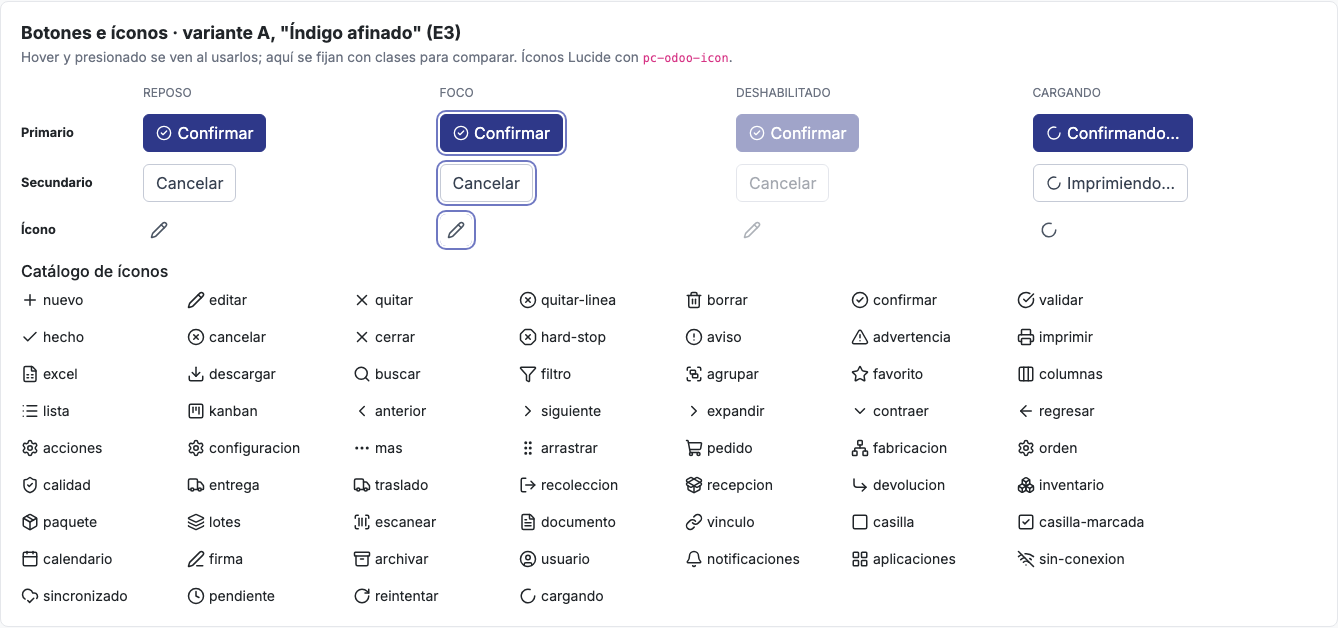
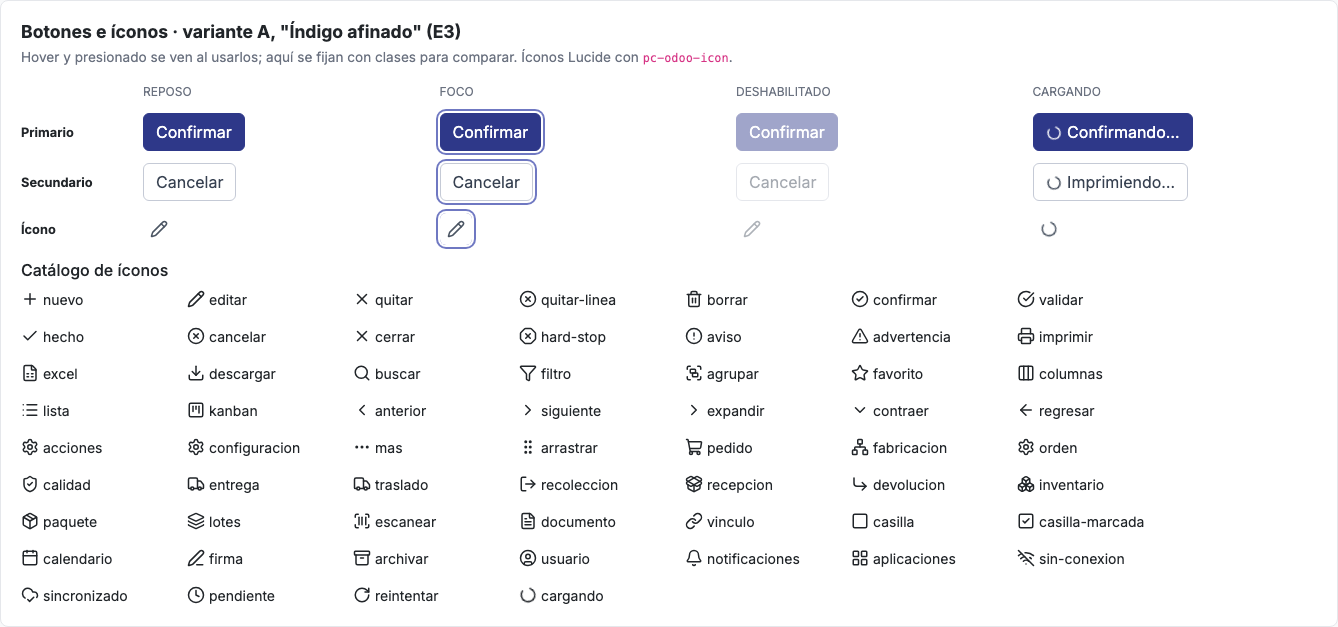
Contratos visuales: segunda revisión del líder sobre la galería
Sin ícono en Nuevo, Confirmar y Agregar; líneas de otro documento con
botones de enlace; sincronización en la barra de acciones; etapas de
338 px con el estado arriba a la derecha y la fecha estimada de entrega
en la tarjeta; cambio de vista a la extrema derecha; búsqueda con radio
de 6 px; tablas con pesos más ligeros. Sin pruebas nuevas, por
indicación del líder.

Claude-Session: https://claude.ai/code/session_01RHdGrNrHGBQxGLzfEJdf7d

diff --git a/PolyConecta.Web/src/app/features/catalogo/catalogo.html b/PolyConecta.Web/src/app/features/catalogo/catalogo.html
@@ -25,10 +25,15 @@
       <h2>Lista · <code>pc-odoo-list</code> con <code>pc-odoo-search-panel</code></h2>
       <p>57 pedidos de ejemplo. Ordena, filtra, agrupa, pagina, elige columnas, selecciona, exporta y guarda favoritos; todo lo resuelve el origen de datos.</p>
       <div class="o_control_panel px-0">
+        <div class="d-flex align-items-center gap-3">
+          <pc-boton-nuevo [ruta]="'/catalogo'" />
+          <pc-odoo-breadcrumb [items]="[{ label: 'Pedidos' }]" />
+        </div>
         <pc-odoo-search-panel [view]="vista" [(texto)]="busqueda" [(filtrosActivos)]="nombrados" [(agrupacionesActivas)]="agrupaciones"
                               [permiteAgrupar]="true" [conFavoritos]="true" [favoritos]="lista.favoritos()"
                               (guardarFavorito)="lista.guardarFavorito($event.nombre, $event.porOmision)"
                               (aplicarFavorito)="lista.aplicarFavorito($event)" (borrarFavorito)="lista.borrarFavorito($event)" />
+        <div class="d-flex align-items-center gap-2"><pc-odoo-view-switcher /></div>
       </div>
       <pc-odoo-list #lista lista="catalogo.pedidos" [tamanoInicial]="20" [origen]="origen" [columnas]="columnas" [idDe]="idPedido"
                     [(busqueda)]="busqueda" [(nombrados)]="nombrados" [(agruparPor)]="agrupaciones"
@@ -49,16 +54,19 @@
                       (movida)="ultimoEvento.set($event.fila.folio + ': ' + $event.desde + ' → ' + $event.hacia); lista.recargar()"
                       (rechazada)="ultimoEvento.set($event.motivo)" (abrir)="ultimoEvento.set('Abrir ' + $event.folio)" />
       <ng-template #tarjeta let-p>
-        <div class="fw-bold text-dark small">{{ p.folio }}</div>
+        <div class="o_kanban_card_cabecera">
+          <div class="fw-semibold text-dark small">{{ p.folio }}</div>
+          <span class="badge badge-brand">{{ p.estado }}</span>
+        </div>
         <div class="text-muted small">{{ p.cliente }}</div>
-        <div class="badge badge-brand mt-2">{{ p.estado }}</div>
+        <div class="o_kanban_card_dato" data-catalogo="entrega"><pc-odoo-icon nombre="calendario" />Entrega estimada: {{ fechaCampo(p.entrega) }}</div>
       </ng-template>
     </section>
 
     <!-- ============================================================ Formulario -->
     <section class="o_catalogo_seccion" id="formulario" data-catalogo="formulario">
       <h2>Formulario de documento</h2>
-      <p>Panel (Nuevo, migas con el engranaje de acciones al final, botones inteligentes), barra de acciones y etapas, hoja con pestañas, captura de líneas y chatter con el estado de sincronización arriba. El botón inteligente "Pedido" está deshabilitado: así se ve un documento libre sin origen.</p>
+      <p>Panel (Nuevo, migas con el engranaje de acciones al final, botones inteligentes), barra de acciones con el estado de sincronización a la derecha, etapas, hoja con pestañas, captura de líneas y chatter. El botón inteligente "Pedido" está deshabilitado: así se ve un documento libre sin origen.</p>
       <div class="o_control_panel px-0">
         <div class="d-flex align-items-center gap-3">
           <pc-boton-nuevo [ruta]="'/catalogo'" />
@@ -70,9 +78,11 @@
       </div>
       <div class="o_statusbar">
         <div class="d-flex gap-2 align-items-center">
-          <button type="button" class="btn btn-primary"><pc-odoo-icon nombre="confirmar" />Confirmar</button>
+          <button type="button" class="btn btn-primary">Confirmar</button>
           <button type="button" class="btn btn-outline-secondary">Cancelar</button>
         </div>
+        <!-- Solo en documentos que envían un comando a CONTPAQi (contratos visuales §1.8). -->
+        <pc-odoo-sync-status estado="Pendiente" />
       </div>
       <div class="d-flex gap-3 align-items-start">
         <div class="o_form_sheet flex-grow-1">
@@ -102,8 +112,6 @@
           </div>
         </div>
         <div style="width:340px">
-          <!-- Solo en documentos que envían un comando a CONTPAQi (contratos visuales §1.8). -->
-          <div class="o_chatter_cabecera"><pc-odoo-sync-status estado="Pendiente" /></div>
           <pc-odoo-chatter-drawer [(messages)]="mensajes" />
         </div>
       </div>
@@ -146,10 +154,10 @@
           <pc-odoo-number nombre="Merma" tipo="porcentaje" [decimales]="1" [(ngModel)]="porcentaje" />
         </div>
         <div class="o_catalogo_campo">
-          <label>Selección de lotes</label>
+          <label>Líneas de otro documento</label>
           <div class="d-flex gap-2">
-            <button type="button" class="btn btn-sm btn-outline-secondary" data-catalogo="abrir-lotes" (click)="verLotes.set(true)"><pc-odoo-icon nombre="lotes" />Lotes</button>
-            <button type="button" class="btn btn-sm btn-outline-secondary" data-catalogo="abrir-cantidades" (click)="verCantidades.set(true)"><pc-odoo-icon nombre="lotes" />Lotes y cantidades</button>
+            <button type="button" class="btn btn-sm o_btn_link" data-catalogo="abrir-lotes" (click)="verLotes.set(true)"><pc-odoo-icon nombre="lotes" />Seleccionar líneas</button>
+            <button type="button" class="btn btn-sm o_btn_link" data-catalogo="abrir-cantidades" (click)="verCantidades.set(true)"><pc-odoo-icon nombre="lotes" />Seleccionar con cantidades</button>
           </div>
           <div class="small mt-1" data-catalogo="lotes">{{ lotesElegidos.join(', ') || '—' }}</div>
           <pc-lot-picker-modal [show]="verLotes()" [availableLots]="lotes" [(selectedFolios)]="lotesElegidos" [requiredQty]="1500" unidad="PZA" (closed)="verLotes.set(false)" />
@@ -198,9 +206,9 @@
         <span class="o_catalogo_estado">Reposo</span><span class="o_catalogo_estado">Foco</span><span class="o_catalogo_estado">Deshabilitado</span>
         <span class="o_catalogo_estado">Cargando</span>
         <strong>Primario</strong>
-        <div><button type="button" class="btn btn-primary"><pc-odoo-icon nombre="confirmar" />Confirmar</button></div>
-        <div><button type="button" class="btn btn-primary" style="box-shadow: 0 0 0 2px #fff, 0 0 0 4px var(--focus-ring)"><pc-odoo-icon nombre="confirmar" />Confirmar</button></div>
-        <div><button type="button" class="btn btn-primary" disabled><pc-odoo-icon nombre="confirmar" />Confirmar</button></div>
+        <div><button type="button" class="btn btn-primary">Confirmar</button></div>
+        <div><button type="button" class="btn btn-primary" style="box-shadow: 0 0 0 2px #fff, 0 0 0 4px var(--focus-ring)">Confirmar</button></div>
+        <div><button type="button" class="btn btn-primary" disabled>Confirmar</button></div>
         <div><button type="button" class="btn btn-primary o_btn_loading" aria-busy="true"><pc-odoo-icon nombre="cargando" />Confirmando…</button></div>
         <strong>Secundario</strong>
         <div><button type="button" class="btn btn-outline-secondary">Cancelar</button></div>

diff --git a/PolyConecta.Web/src/styles/app.css b/PolyConecta.Web/src/styles/app.css
@@ -288,10 +288,10 @@ body {
     border-radius: 8px;
     padding: 0.75rem;
     /* Ancho fijo de etapa (contratos visuales §1.2): todas las columnas miden lo mismo. */
-    width: 260px;
-    min-width: 260px;
-    max-width: 260px;
-    flex: 0 0 260px;
+    width: 338px;
+    min-width: 338px;
+    max-width: 338px;
+    flex: 0 0 338px;
 }
 
 .o_kanban_column_title {
@@ -484,15 +484,18 @@ body {
 .o_control_panel > .o_search_bar {
     justify-self: center;
 }
+.o_search_bar:focus-within { border-color: var(--brand-primary); }
+/* La tercera columna del panel (cambio de vista) va a la extrema derecha, lejos de la búsqueda. */
+.o_control_panel > :nth-child(3) { justify-self: end; }
 
 .o_search_bar {
     display: flex;
     align-items: center;
     gap: 0.4rem;
-    background: #F3F4F6;
-    border: 1px solid var(--border-color);
-    border-radius: 999px;
-    padding: 0.3rem 0.9rem;
+    background: white;
+    border: 1px solid var(--btn-secondary-border);
+    border-radius: 6px;
+    padding: 0.3rem 0.75rem;
     min-width: 280px;
     color: var(--text-muted);
 }
@@ -965,3 +968,18 @@ body {
 .o_sync_popover { padding: 0.75rem 0.9rem; min-width: 260px; max-width: 340px; font-size: 0.85rem; }
 .o_sync_popover_titulo { font-weight: 600; margin-bottom: 0.25rem; }
 .o_chatter_cabecera { display: flex; justify-content: flex-end; align-items: center; gap: 0.5rem; margin-bottom: 0.5rem; min-height: 30px; }
+
+/* --- Revisión de la galería (2026-10-07) --- */
+/* Tablas: encabezado en peso medio y gris, contenido en peso normal y a 0.85rem. */
+.table { font-size: 0.85rem; }
+.table > thead th { font-weight: 500; font-size: 0.8rem; }
+.table > tbody td { font-weight: 400; }
+.table > tbody td.fw-semibold, .table > tbody td .fw-semibold { font-weight: 500 !important; }
+.o_list_footer td { font-weight: 500; }
+/* Botón de enlace: sin borde ni fondo, color primario (abrir selectores sobre líneas de otro documento). */
+.btn.o_btn_link { white-space: nowrap; border: 0; background: transparent; color: var(--brand-primary); padding-left: 0.25rem; padding-right: 0.25rem; }
+.btn.o_btn_link:hover { color: var(--brand-primary-hover); text-decoration: underline; }
+/* Tarjeta de kanban: el estado arriba a la derecha, separado del borde por el mismo relleno de la tarjeta. */
+.o_kanban_card_cabecera { display: flex; justify-content: space-between; align-items: flex-start; gap: 0.5rem; }
+.o_kanban_card_cabecera .badge { flex-shrink: 0; }
+.o_kanban_card_dato { display: flex; align-items: center; gap: 0.35rem; margin-top: 0.5rem; font-size: 0.78rem; color: var(--text-muted); }

diff --git a/PolyConecta.Web/src/app/features/ventas/pedidos-list/pedidos-list.html b/PolyConecta.Web/src/app/features/ventas/pedidos-list/pedidos-list.html
@@ -17,10 +17,15 @@
         <pc-odoo-kanban #kanban [origen]="origen" campoEtapa="estado" [etapas]="etapas" [transiciones]="transiciones" [tarjeta]="tarjeta"
                         [idDe]="idPedido" [etapaDe]="etapaPedido" [nombrados]="filtros()" [busqueda]="searchText()" (abrir)="abrir($event)" />
         <ng-template #tarjeta let-f>
-            <div class="fw-bold text-dark small">{{ f.folio }}</div>
+            <div class="o_kanban_card_cabecera">
+                <div class="fw-semibold text-dark small">{{ f.folio }}</div>
+                <span class="badge badge-brand">{{ f.estado }}</span>
+            </div>
             <div class="text-muted small">{{ f.cliente }}</div>
-            <div class="text-muted small mt-1"><pc-odoo-icon nombre="paquete" />{{ f.producto }}</div>
-            <div class="badge badge-brand mt-2">{{ f.estado }}</div>
+            <div class="o_kanban_card_dato"><pc-odoo-icon nombre="paquete" />{{ f.producto }}</div>
+            @if (f.entrega) {
+                <div class="o_kanban_card_dato"><pc-odoo-icon nombre="calendario" />Entrega estimada: {{ fechaCampo(f.entrega) }}</div>
+            }
         </ng-template>
         <pc-odoo-pager [count]="kanban.total()" />
     } @else {

diff --git a/PolyConecta.Web/src/app/features/produccion/incidencias/incidencias.html b/PolyConecta.Web/src/app/features/produccion/incidencias/incidencias.html
@@ -19,7 +19,7 @@
         <div class="col-md-3"><label class="form-label small text-muted">Comentarios</label><input class="form-control form-control-sm o_inline_input" [value]="comentarios()" (change)="comentarios.set(valor($event))" /></div>
         <div class="col-md-1"><label class="form-label small text-muted">Inicio</label><input class="form-control form-control-sm o_inline_input" [value]="horaInicio()" (change)="horaInicio.set(valor($event))" placeholder="19:00" /></div>
         <div class="col-md-1"><label class="form-label small text-muted">Fin</label><input class="form-control form-control-sm o_inline_input" [value]="horaFin()" (change)="horaFin.set(valor($event))" placeholder="07:00" /></div>
-        <div class="col-md-3"><button class="btn btn-sm btn-outline-primary w-100" (click)="agregar()"><pc-odoo-icon nombre="nuevo" /> Agregar Incidencia</button></div>
+        <div class="col-md-3"><button class="btn btn-sm btn-outline-primary w-100" (click)="agregar()">Agregar Incidencia</button></div>
     </div>
 
     @if (viewState.viewMode() === 'Kanban') {

diff --git a/PolyConecta.Web/src/app/features/produccion/fabricacion-list/fabricacion-list.html b/PolyConecta.Web/src/app/features/produccion/fabricacion-list/fabricacion-list.html
@@ -17,9 +17,12 @@
         <pc-odoo-kanban #kanban [origen]="origen" campoEtapa="estado" [etapas]="etapas" [transiciones]="transiciones" [tarjeta]="tarjeta"
                         [idDe]="idOf" [etapaDe]="etapaOf" [nombrados]="filtros()" [busqueda]="searchText()" [filtros]="filtroPedido()" (abrir)="abrir($event)" />
         <ng-template #tarjeta let-f>
-            <div class="fw-bold text-dark small">{{ f.folio }}</div>
+            <div class="o_kanban_card_cabecera">
+                <div class="fw-semibold text-dark small">{{ f.folio }}</div>
+                <span class="badge badge-brand">{{ f.estado }}</span>
+            </div>
             <div class="text-muted small">{{ f.proceso }}</div>
-            <div class="badge badge-brand mt-2">{{ f.estado }}</div>
+            <div class="o_kanban_card_dato"><pc-odoo-icon nombre="calendario" />Fecha esperada: {{ fechaCampo(f.of.fechaEsperada) }}</div>
         </ng-template>
         <pc-odoo-pager [count]="kanban.total()" />
     } @else {

diff --git a/PolyConecta.Web/src/app/features/ventas/pedidos-list/pedidos-list.ts b/PolyConecta.Web/src/app/features/ventas/pedidos-list/pedidos-list.ts
@@ -4,6 +4,7 @@ import { PEDIDOS } from '../../../core/search/views';
 import { UiViewState } from '../../../core/state/ui-view-state';
 import { BotonNuevo } from '../../../shared/boton-nuevo/boton-nuevo';
 import { OdooBreadcrumb } from '../../../shared/odoo-breadcrumb/odoo-breadcrumb';
+import { fechaCampo } from '../../../core/format/numero';
 import { OdooIcon } from '../../../shared/odoo-icon/odoo-icon';
 import { OdooKanban } from '../../../shared/odoo-kanban/odoo-kanban';
 import { ColumnaLista } from '../../../shared/odoo-list/columnas';
@@ -29,6 +30,7 @@ export class PedidosList {
 
   protected readonly origen = this.acciones.origen();
   protected readonly transiciones = this.acciones.transiciones();
+  protected readonly fechaCampo = fechaCampo;
   protected readonly etapas = ETAPAS_PEDIDO.map(e => ({ valor: e, titulo: e }));
   protected readonly idPedido = (f: FilaPedido) => f.id;
   protected readonly etapaPedido = (f: FilaPedido) => f.estado;

diff --git a/PolyConecta.Web/src/app/features/produccion/fabricacion-list/fabricacion-list.ts b/PolyConecta.Web/src/app/features/produccion/fabricacion-list/fabricacion-list.ts
@@ -1,6 +1,6 @@
 import { Component, computed, inject, input, signal, TemplateRef, viewChild } from '@angular/core';
 import { Router } from '@angular/router';
-import { n1 } from '../../../core/format/numero';
+import { fechaCampo, n1 } from '../../../core/format/numero';
 import { FiltroLista } from '../../../core/lista/origen';
 import { FABRICACION } from '../../../core/search/views';
 import { UiViewState } from '../../../core/state/ui-view-state';
@@ -39,6 +39,7 @@ export class FabricacionList {
 
   protected readonly origen = this.acciones.origen(() => this.pedido());
   protected readonly transiciones = this.acciones.transiciones();
+  protected readonly fechaCampo = fechaCampo;
   protected readonly etapas = ETAPAS_OF.map(e => ({ valor: e, titulo: e }));
   protected readonly idOf = (f: FilaOf) => f.id;
   protected readonly etapaOf = (f: FilaOf) => f.estado;

diff --git a/PolyConecta.Web/src/app/features/catalogo/catalogo.ts b/PolyConecta.Web/src/app/features/catalogo/catalogo.ts
@@ -1,3 +1,4 @@
+import { fechaCampo } from '../../core/format/numero';
 import { Component, inject, signal } from '@angular/core';
 import { FormsModule } from '@angular/forms';
 import { DIALOG_DATA, Dialog, DialogRef } from '@angular/cdk/dialog';
@@ -100,6 +101,7 @@ export class Catalogo {
   protected readonly origenVacio = new OrigenEnMemoria<PedidoEjemplo>({ datos: () => [], id: p => p.id });
   protected readonly idPedido = (p: PedidoEjemplo) => p.id;
   protected readonly etapaPedido = (p: PedidoEjemplo) => p.estado;
+  protected readonly fechaCampo = fechaCampo;
   protected readonly columnas: ColumnaLista<PedidoEjemplo>[] = [
     { campo: 'folio', titulo: 'Folio', clase: 'fw-semibold text-primary' },
     { campo: 'cliente', titulo: 'Cliente' },

diff --git a/PolyConecta.Web/src/app/features/produccion/fabricacion-form/fabricacion-form.html b/PolyConecta.Web/src/app/features/produccion/fabricacion-form/fabricacion-form.html
@@ -14,7 +14,7 @@
             <div class="d-flex align-items-center gap-2">
                 @if (of.state === 'Borrador') {
                     <button class="btn btn-primary btn-sm fw-bold px-3" (click)="confirmar()" [disabled]="of.componentes.length === 0">
-                        <pc-odoo-icon nombre="bi-check-circle" /> Confirmar
+                        Confirmar
                     </button>
                     <button class="btn btn-outline-secondary btn-sm px-3" (click)="volverALista()">Cancelar</button>
                 } @else if (of.state !== 'Hecho') {

diff --git a/PolyConecta.Web/src/app/core/format/numero.ts b/PolyConecta.Web/src/app/core/format/numero.ts
@@ -21,6 +21,9 @@ const dos = (n: number) => String(n).padStart(2, '0');
 /** `dd MMM yy`: 23 sept 26. */
 export const fechaCorta = (d: Date): string => `${dos(d.getDate())} ${MESES[d.getMonth()]} ${dos(d.getFullYear() % 100)}`;
 
+/** Como el campo de fecha (contratos visuales §1.6): 7 oct 2026. */
+export const fechaCampo = (d: Date): string => `${d.getDate()} ${MESES[d.getMonth()]} ${d.getFullYear()}`;
+
 /** `dd-MMM-yy`: 05-may-26. */
 export const fechaGuion = (d: Date): string => `${dos(d.getDate())}-${MESES[d.getMonth()]}-${dos(d.getFullYear() % 100)}`;
 

diff --git a/PolyConecta.Web/src/app/features/ventas/pedidos-acciones.ts b/PolyConecta.Web/src/app/features/ventas/pedidos-acciones.ts
@@ -12,6 +12,8 @@ import { FirmaPedido } from './firma-pedido';
 export interface FilaPedido extends SalesOrderRow {
   id: string;
   cantidad: string;
+  /** Fecha estimada de entrega; la tarjeta del kanban la muestra. */
+  entrega: Date | null;
   pedido: SalesOrder;
 }
 
@@ -58,6 +60,7 @@ export class PedidosAcciones {
         producto: linea?.clave ?? '',
         estado: p.stage,
         cantidad: linea ? `${n1(linea.cantidad)} ${linea.unidad}` : '',
+        entrega: p.fechaPromesa,
         pedido: p,
       };
     });

diff --git a/PolyConecta.Web/src/app/shared/odoo-line-capture/odoo-line-capture.html b/PolyConecta.Web/src/app/shared/odoo-line-capture/odoo-line-capture.html
@@ -33,7 +33,7 @@
     }
     <div class="col-12 col-md-2 d-flex gap-1">
       <button class="btn btn-sm btn-primary flex-grow-1" (click)="submit()" [disabled]="!valido()">
-        <i class="bi" [class.bi-check-lg]="enEdicion()" [class.bi-plus-lg]="!enEdicion()"></i> {{ enEdicion() ? 'Guardar' : 'Agregar' }}
+        {{ enEdicion() ? 'Guardar' : 'Agregar' }}
       </button>
       @if (enEdicion()) {
         <button class="btn btn-sm btn-light border" title="Cancelar" (click)="cancelled.emit()">
